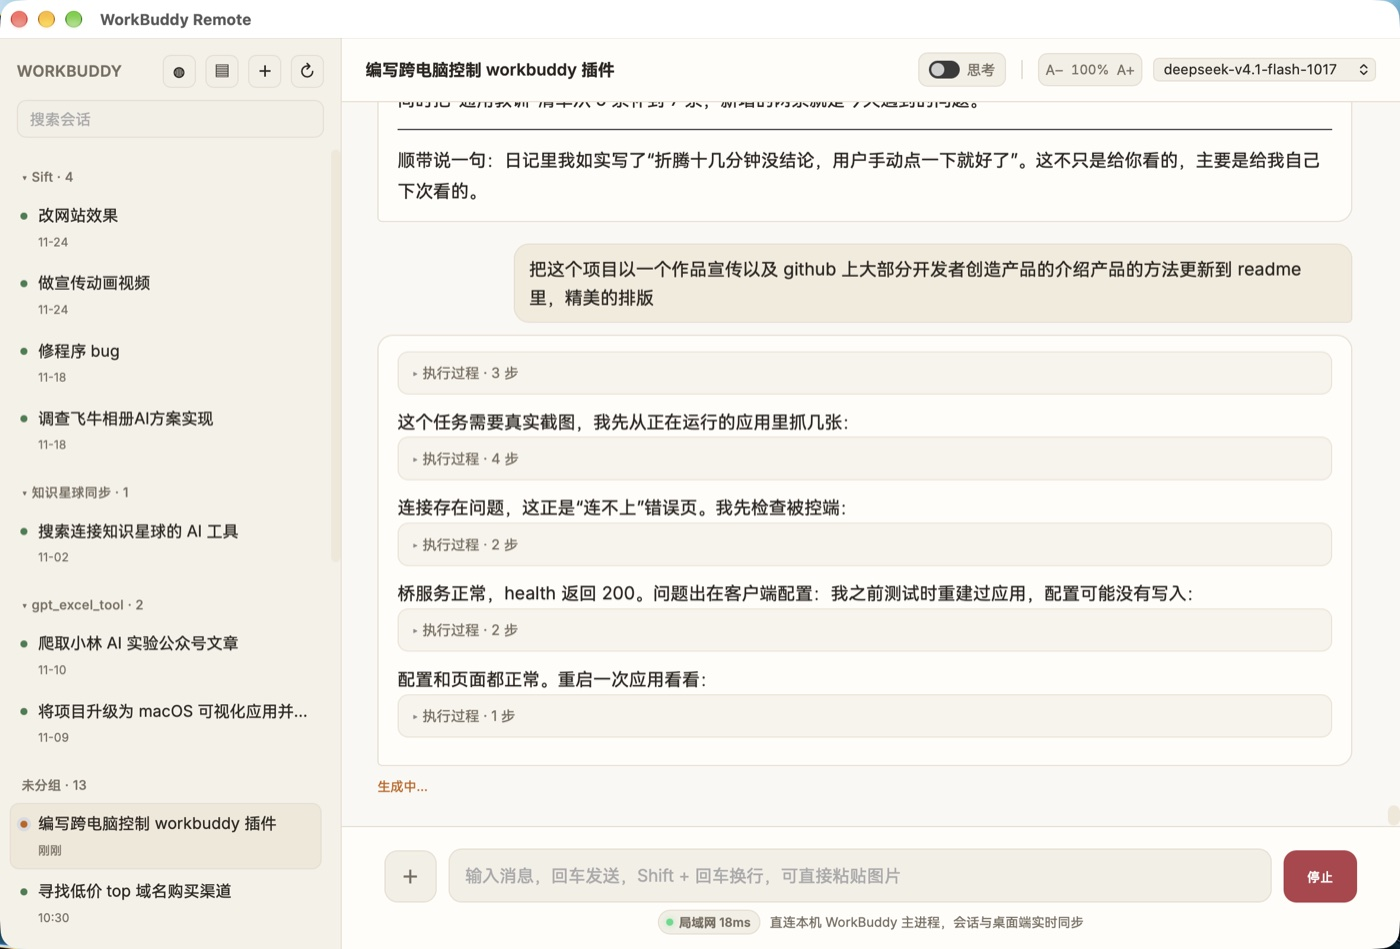
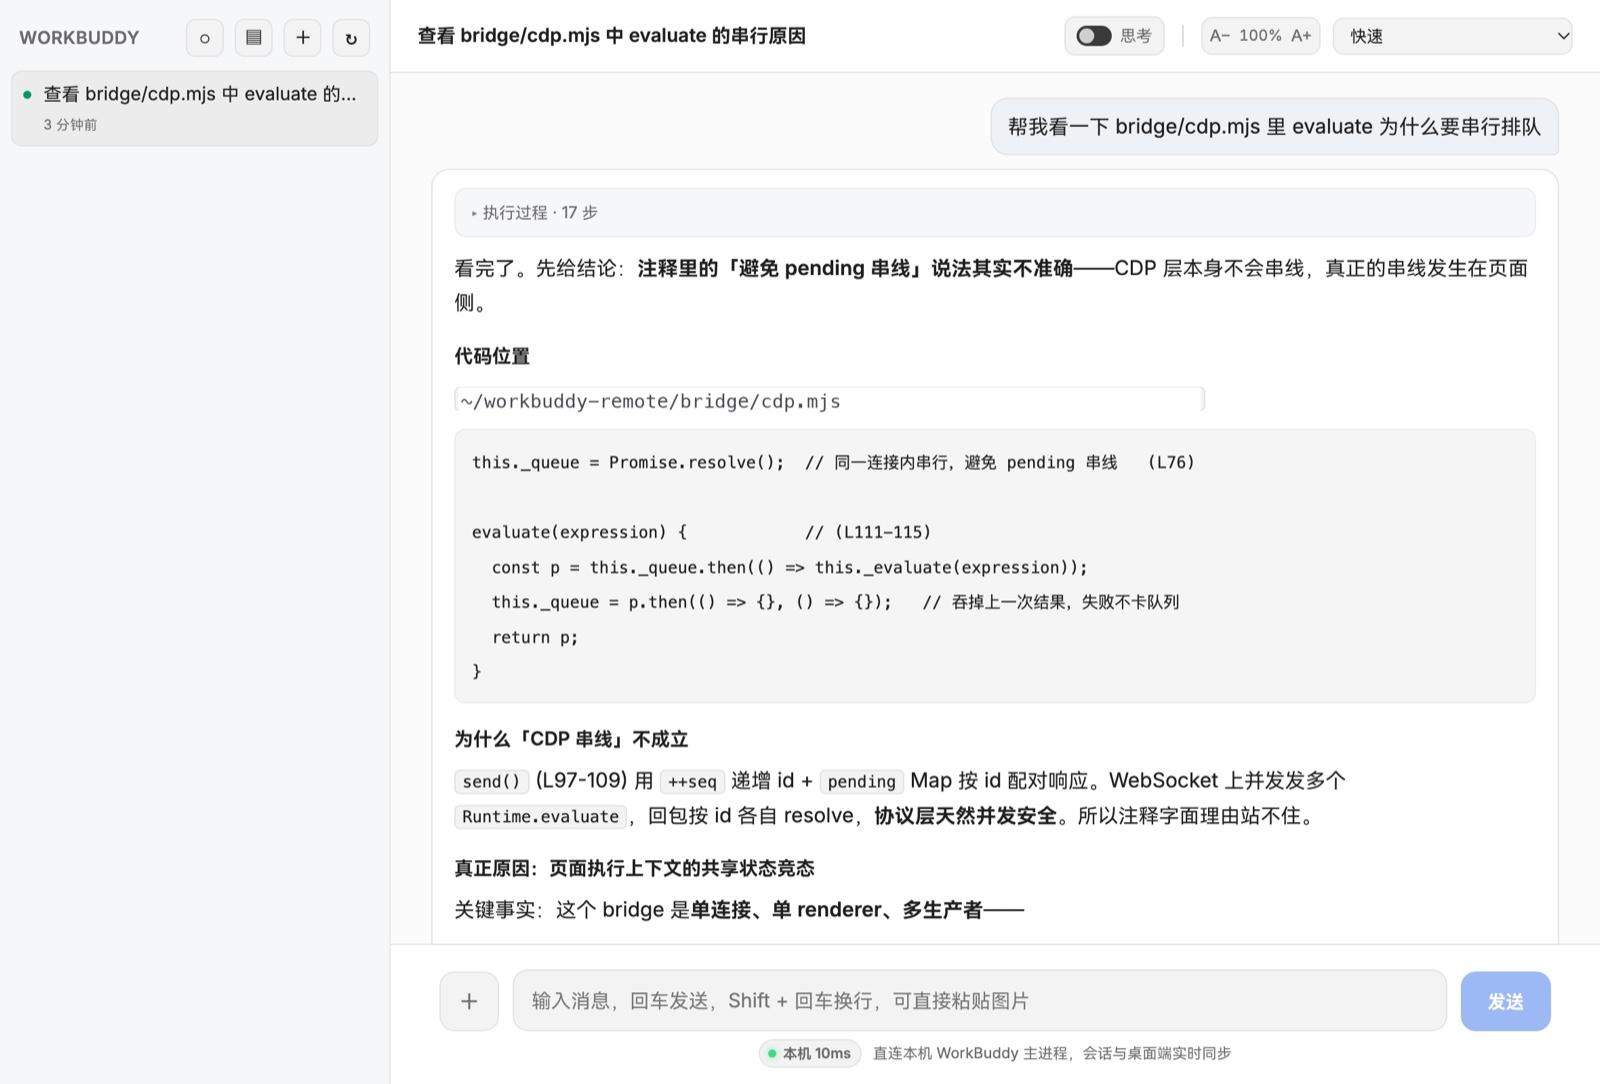
docs: 换一张干净的产品截图
原来那张侧栏是自己的真实项目名（改网站效果/修程序 bug/调查飞牛相册），
放产品介绍里不合适。

改法不是打码 —— 页面加两个截图专用参数：

- focus=<id>  只渲染指定会话，侧栏只留这一项
  不给的话侧栏是自己的项目名。不用 CSS 隐藏是因为分组标题写着
  「未分组 · 14」，光藏项会留一个对不上的数字，一眼假。
- top=1       对话从顶部开始，不停在底部
  stickBottom 里直接 return，产品图第一屏有用户提问更容易看懂

新图内容：一个真实的技术问答（为什么 CDP evaluate 要串行排队），
有提问、思考过程、代码块、分层论证。路径里的用户名替换成了 ~。

diff --git a/web/index.html b/web/index.html
@@ -257,6 +257,10 @@
   .item .del{position:absolute;right:6px;top:50%;transform:translateY(-50%);width:22px;height:22px;border-radius:6px;border:1px solid var(--del-line);background:var(--del-bg);color:var(--del-fg);cursor:pointer;opacity:0;font-size:14px;line-height:1;padding:0}
   .item:hover .del{opacity:1}
   .item .del:hover{background:#3a2227;color:#ff9aa2}
+
+  /* focus 截图模式：侧栏只留当前会话，隐藏搜索框和分组计数 */
+  html.focus-mode #q{display:none}
+  html.focus-mode .group{display:none}
 </style>
 </head>
 <body>
@@ -385,6 +389,12 @@ function toast(msg) {
   if (t) localStorage.setItem('wb.token', t);
 })();
 const ONCE = new URLSearchParams(location.search).has('once');  // 截图/打印用：只渲染一次，不轮询
+// 截图/录屏用：只打开指定会话，并隐藏侧栏里其它会话。
+// 真实使用时侧栏是自己的项目名，不适合放进产品截图。
+const FOCUS = new URLSearchParams(location.search).get('focus') || '';
+// 截图用：从对话顶部开始，而不是停在底部。产品图第一屏有用户提问更好懂。
+const SHOT_TOP = new URLSearchParams(location.search).has('top');
+if (FOCUS) document.documentElement.classList.add('focus-mode');
 const getToken = () => localStorage.getItem('wb.token') || '';
 
 async function api(path, opts = {}) {
@@ -461,7 +471,12 @@ function sessionNode(s) {
 
 function renderList() {
   const q = $('#q').value.trim().toLowerCase();
-  const items = state.sessions.filter((s) => !q || (s.title || '').toLowerCase().includes(q));
+  // focus 模式（截图用）不按搜索词过滤，只留目标会话。
+  // 之所以不靠 CSS 隐藏：分组计数写的是「未分组 · 14」，光藏标题
+  // 会留下一个对不上的数字，一眼假。
+  const items = FOCUS
+    ? state.sessions.filter((s) => s.id === FOCUS)
+    : state.sessions.filter((s) => !q || (s.title || '').toLowerCase().includes(q));
   const box = $('#list');
   box.textContent = '';
 
@@ -736,6 +751,7 @@ function atBottom(box) {
 }
 
 function stickBottom(box) {
+  if (SHOT_TOP) return;   // 截图模式：不贴底，停在顶部
   box.scrollTop = box.scrollHeight;
 }
 
@@ -1476,6 +1492,11 @@ $('#input').addEventListener('input', (e) => {
   try {
     await Promise.all([loadSessions(), loadSpaces(), loadModels()]);
     renderList();
+    // focus 模式优先打开指定会话
+    if (FOCUS) {
+      await openSession(FOCUS);
+      return;
+    }
     const first = state.sessions.find((x) => (x.title || '').trim()) || state.sessions[0];
     if (first) openSession(first.id);
     if (localStorage.getItem('wb.previewOpen') === '1') openPreview();
